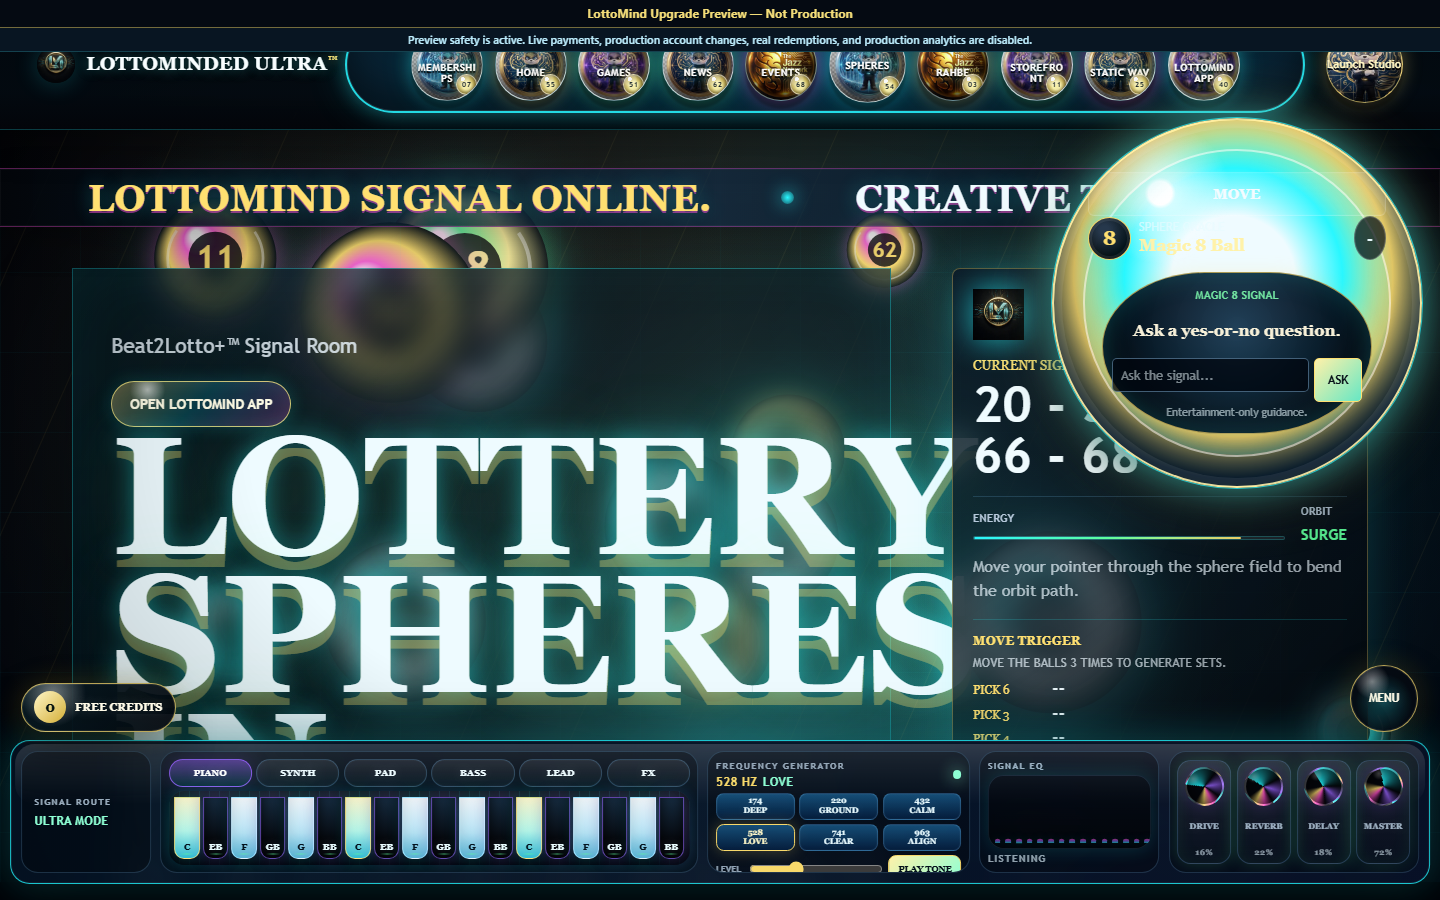
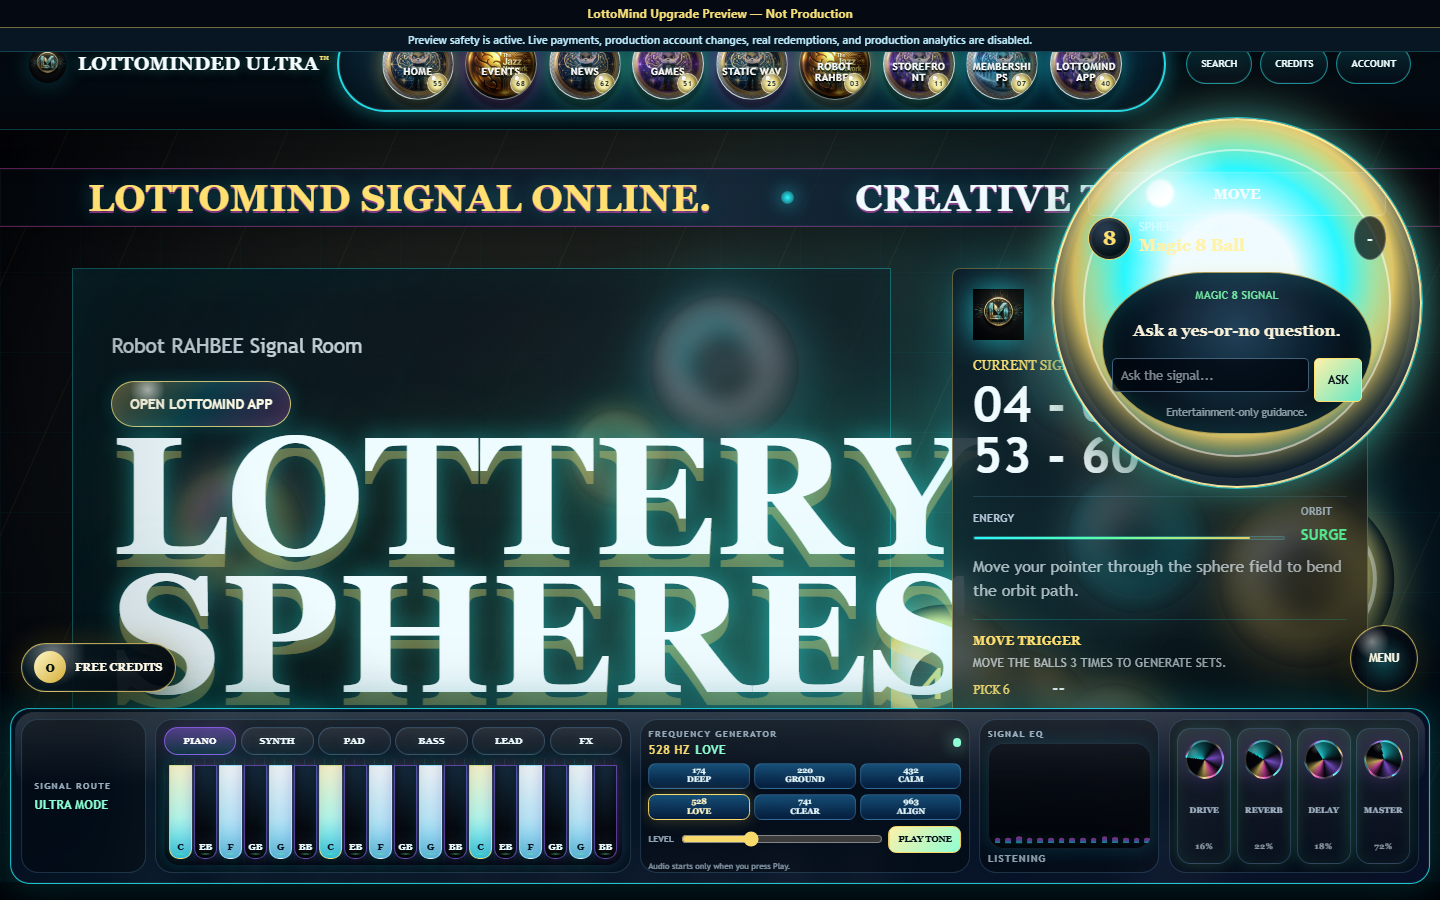
docs: record home storefront and spheres verification

diff --git a/docs/upgrade-redesign-status.md b/docs/upgrade-redesign-status.md
@@ -7,7 +7,7 @@
 - Snapshot annotated tag object SHA: `9ba25352efc17d5b514e5afd59c8afde5c9d2949`
 - Snapshot target commit SHA: `975c637cea7003533cdc30aed9d96be51929bfc8`
 - Upgrade branch: `upgrade-redesign`
-- Current upgrade branch implementation SHA: `37297acd4ddc910e5abe980f2741978e64e67194`
+- Current upgrade branch implementation SHA: `03129291ff064bebee08642d5e43b57d6b0bbee9`
 - Upgrade branch SHA at Step 0A branch creation: `1fc4c95ca4d0b22ee5188d06f8ea75573c63a00a`
 - Upgrade branch SHA before Step 0B commit: `220653bbc300d0e0b236c6e834043f39fdfcd76c`
 - Step 0B commit SHA: `6e58aafc4addabf5281262ec951a7d6df3dc66a0`
@@ -15,15 +15,15 @@
 - Staging provider: Local static server (Mode C); no remote preview provider is configured
 - Staging URL: Local only (`http://127.0.0.1:8321/` while the current staging server is running)
 - Staging integrations: No isolated backend or Stripe test-mode configuration is currently configured; protected writes remain disabled
-- Last completed step: Shared navigation order and Search, Credits, and Account utility pills verified on `upgrade-redesign`
+- Last completed step: Restored the original Home commercial, replaced the selected Storefront products with the Detroit 1701 patch at `$10`, and expanded the Spheres frequency generator on `upgrade-redesign`
 - Step 1 commit SHA: This file is part of the Step 1 commit; use `git log -1 --format=%H -- docs/upgrade-redesign-status.md` to resolve its exact non-self-referential SHA. The completion report records it explicitly.
-- Last staging review: Robot RAHBEE, Account, and navigation review passed and is ready for the next phase; review: `docs/staging-reviews/robot-rahbee-account-nav.md`
+- Last staging review: Home, Storefront, and Spheres corrections passed and are ready for the next phase; review: `docs/staging-reviews/home-storefront-spheres-corrections.md`
 - Staging review commit SHA: This file is part of the staging-review commit; the completion report records its exact SHA.
-- Last successful test run: 2026-08-02 - site validation passed 16 HTML files; focused desktop/mobile header checks passed 4/4; clean-port source/staging route matrix passed 144/144; staging browser safety passed 10/10; staging static verification passed 24 pages and 560 same-origin references; header visual captures passed 2/2
+- Last successful test run: 2026-08-02 - Home validation passed; site validation passed 16 HTML files; focused Home, Storefront, and Spheres browser checks passed 6/6; Home regression passed 12/12 with 4 intentional skips; clean-port source/staging route matrix passed 150/150; staging browser safety passed 10/10; staging static verification passed 25 pages and 569 same-origin references; nine visual captures passed at desktop, tablet, and mobile
 - Visual baseline: Complete - 69 production route screenshots plus desktop, tablet, and mobile contact sheets under `docs/visual-baseline/v1/`
 - Step 1 visual comparison: Production and staging home routes compared at 1440x900 and 390x844; staging adds only the preview and safety banners, with no redesign changes
 - Resolved Step 1 baseline failures: Contact support helper restored; Stem Studio tablet/mobile overflow corrected; Jackpot Maze runtime, heading, and entry focus restored; first-load outliers reduced; staging News production request removed
-- Latest visual comparison: Shared Home header compared with `v1-final` at 1440x900 and 390x844; review: `docs/staging-reviews/shared-header-order.md`
+- Latest visual comparison: Home, Storefront, and Spheres compared with `v1-final` at 1440x900, 768x1024, and 390x844; review: `docs/staging-reviews/home-storefront-spheres-corrections.md`
 - Latest performance comparison: Mobile 4G wall load improved for Memberships 9687 -> 6690 ms, Arcade 7291 -> 5929 ms, Robot RAHBEE 2208 -> 1990 ms, Static Wav 2167 -> 2030 ms, and Live Events 9804 -> 9437 ms; Storefront bundle art reduced from approximately 4.16 MiB to 0.16 MiB
 - Staging review approval status: Ready for next phase
 - Production approval status: The earlier Step 35 launch was approved and completed through PR #2 using merge commit `09f8e5d2c8bc10d0cf1af240216404c6af74c3c0`; the new Phase 1 rollback commit is not approved or merged to `main`
@@ -42,6 +42,21 @@
 - Commerce and backend impact: None; staging write protections remain active
 - Staging URL: Local only (`http://127.0.0.1:8321/`)
 - Production approval status: Not approved; production remains unchanged
+
+## Home Commercial, Storefront Patch, And Spheres Console
+
+- Step number: Owner-requested Home, Storefront, and Spheres corrections
+- Implementation commit: `03129291ff064bebee08642d5e43b57d6b0bbee9`
+- Affected routes: `/index.html#top`, `/merch-store.html`, and `/lottery-spheres.html#spheres`
+- Home: Restored the original commercial overlay and existing video with explicit Play with sound and Enter Site controls; playback remains muted until a visitor requests audio
+- Storefront: Replaced the two selected Innovation Floor hoodie cards and the selected Model Drop gallery tile with the supplied Detroit 1701 embroidered patch artwork at `$10`; converted the source PNG to a 126 KiB WebP
+- Spheres: Expanded the fixed console and frequency-generator column so all six presets, level control, play control, and status copy remain available without clipping
+- Tests: Home validation passed; site validation passed 16 HTML files; focused browser checks passed 6/6; Home regression passed 12/12 with 4 intentional skips; source/staging route matrix passed 150/150; staging safety passed 10/10 for 25 noindex pages and 569 same-origin references
+- Visual review: Nine captures passed at `1440x900`, `768x1024`, and `390x844`; review: `docs/staging-reviews/home-storefront-spheres-corrections.md`
+- Intentional visual departures: Home again opens with the original commercial; the selected Storefront products now show the Detroit patch; the Spheres console is slightly taller with a wider frequency deck
+- Commerce and backend impact: None; no checkout, account-write, redemption, analytics, or production-data behavior changed
+- Staging URL: Local only (`http://127.0.0.1:8321/`)
+- Production approval status: Not approved; `main`, production, and `v1-final` remain unchanged
 
 ## Billing Response Validation
 

diff --git a/docs/staging-reviews/home-storefront-spheres-corrections.md b/docs/staging-reviews/home-storefront-spheres-corrections.md
@@ -1,0 +1,61 @@
+# Home, Storefront, And Spheres Corrections
+
+## Review Scope
+
+- Upgrade branch: `upgrade-redesign`
+- Audited implementation commit: `03129291ff064bebee08642d5e43b57d6b0bbee9`
+- Staging URL: `http://127.0.0.1:8321/`
+- Production reference: `v1-final` at `975c637cea7003533cdc30aed9d96be51929bfc8`
+- Routes: `/index.html#top`, `/merch-store.html`, and `/lottery-spheres.html#spheres`
+- Viewports: `1440x900`, `768x1024`, and `390x844`
+
+## Visual Comparisons
+
+| Route | Production baseline | Staging desktop | Staging tablet | Staging mobile |
+| --- | --- | --- | --- | --- |
+| Home | [Desktop](../visual-baseline/v1/home--desktop.png), [Tablet](../visual-baseline/v1/home--tablet.png), [Mobile](../visual-baseline/v1/home--mobile.png) | [1440x900](signal-media-corrections-assets/home-1440x900.png) | [768x1024](signal-media-corrections-assets/home-768x1024.png) | [390x844](signal-media-corrections-assets/home-390x844.png) |
+| Storefront | [Desktop](../visual-baseline/v1/merch-store--desktop.png), [Tablet](../visual-baseline/v1/merch-store--tablet.png), [Mobile](../visual-baseline/v1/merch-store--mobile.png) | [1440x900](signal-media-corrections-assets/storefront-patches-1440x900.png) | [768x1024](signal-media-corrections-assets/storefront-patches-768x1024.png) | [390x844](signal-media-corrections-assets/storefront-patches-390x844.png) |
+| Spheres | [Desktop](../visual-baseline/v1/lottery-spheres-spheres--desktop.png), [Tablet](../visual-baseline/v1/lottery-spheres-spheres--tablet.png), [Mobile](../visual-baseline/v1/lottery-spheres-spheres--mobile.png) | [1440x900](signal-media-corrections-assets/spheres-1440x900.png) | [768x1024](signal-media-corrections-assets/spheres-768x1024.png) | [390x844](signal-media-corrections-assets/spheres-390x844.png) |
+
+The Storefront evidence temporarily hides the unrelated fixed instrument console so the complete replacement product art can be inspected. The product page itself retains that console.
+
+## Improvements
+
+- Restored the original Home commercial overlay and its existing video while keeping playback muted until the visitor explicitly chooses sound.
+- Replaced the two selected Innovation Floor hoodie listings and the selected Model Drop gallery tile with the supplied Detroit 1701 embroidered patch artwork and `$10` pricing.
+- Expanded the compact Spheres console so the frequency generator presents all six presets, the level control, play control, and status copy without clipping.
+- Preserved the shared black, gold, cyan, and violet visual language, spherical navigation, Detroit artwork, and Guardian identity.
+
+## Intentional Departures
+
+- Home now opens with the restored commercial instead of immediately exposing the hero.
+- Three selected Storefront surfaces now advertise the Detroit 1701 embroidered patch rather than the previous hoodie/model-drop products.
+- The Spheres fixed console is slightly taller and gives the frequency generator more horizontal space. On narrow screens the console remains horizontally scrollable and opens with the generator available in the same control deck.
+
+## Regressions And Accessibility
+
+- No horizontal overflow was detected at any audited viewport.
+- No console errors, page errors, or broken same-origin assets were detected in the capture pass.
+- The Home commercial retains keyboard-focusable close, sound, and enter controls; autoplay remains muted-first.
+- The Storefront patch images include descriptive alternative text and explicit dimensions.
+- No unintentionally lost feature was identified in the affected routes.
+
+## Safety And Performance
+
+- Staging contains `noindex,nofollow,noarchive` and the visible preview banner.
+- Live payments, production account writes, real redemptions, and production analytics remain blocked.
+- The supplied 7.22 MiB PNG was converted to a 126 KiB WebP for the three Storefront placements.
+- No checkout, account, redemption, or production deployment behavior changed.
+
+## Verification
+
+- Home validation passed.
+- Site validation passed for 16 HTML files.
+- Focused Home, Storefront, and Spheres browser checks passed 6/6.
+- Home regression checks passed 12/12 with 4 intentional viewport skips.
+- Full source/staging route matrix passed 150/150.
+- Staging safety checks passed 10/10 for 25 generated pages and 569 same-origin references.
+
+## Approval Status
+
+**Ready for next phase.** Production approval remains **Not approved** for this upgrade commit.
